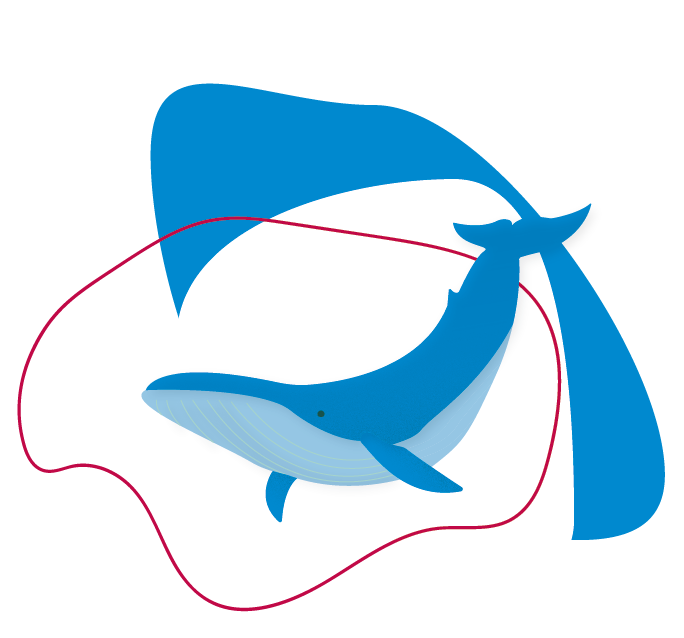
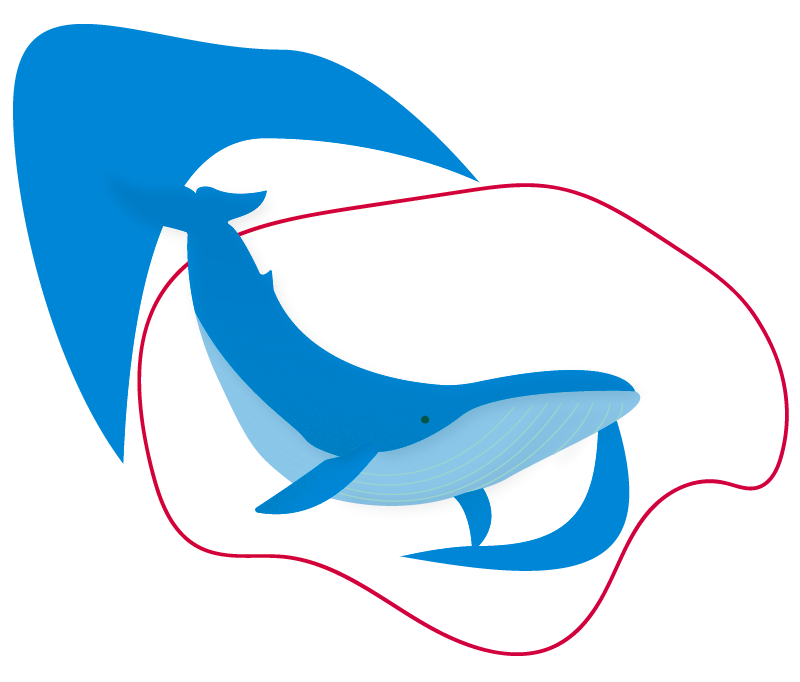
background images

diff --git a/css/style.css b/css/style.css
@@ -1,44 +1,33 @@
 
 
 
-	body.blue{
-		 background-image: url("blue_whale_background.png");
+body.blue{
+		 background-image: url(../images/blue_background-11.png);
+		 background-repeat: no-repeat;
+         background-size: cover;
 	}
-/*
-	body.humpback{
-		background-color:#225caa;
-	}  
-
-	body.gray{
-		background-color:#e5d8b5;
 	}
 
-	body.orca{
-		background-color:#e8858c;
+body.gray{
+		 background-image: url(../images/gray_background-11.png);
+		 background-repeat: no-repeat;
+         background-size: cover;
+	}
 	}
 
-*/
-main.home{
-	background-color:#fff;}
-
-	main.blue{
-		background-color:#a6d1ca;
-	}
-
-	main.humpback{
-		background-color:#225caa;
-	}  
-
-	main.gray{
-		background-color:#e5d8b5;
-	}
-
-	main.orca{
-		background-color:#e8858c;
+body.humpback{
+		 background-image: url(../images/humpback_background-11.png);
+		 background-repeat: no-repeat;
+         background-size: cover;
 	}
 
 
 
+body.orca{
+		 background-image: url(../images/orca_background-11.png);
+		 background-repeat: no-repeat;
+         background-size: cover;
+	}
 
 	a{
 		text-decoration: none;}
@@ -107,7 +96,7 @@ main.home{
 
 
 		nav{ padding: 20px;
-			font-family: 'Barlow', sans-serif;
+			font-family: 'Staatliches', cursive;
 			font-size: 16px;
 		}
 
@@ -136,7 +125,7 @@ h1.home_header {
 	height:100px;
 	padding-top:20px;
 	padding-left:20px;
-	font-family: 'Barlow', sans-serif;
+	font-family: 'Staatliches', cursive;
 	color:#e83832;
 	font-size:70px;
 	font-weight:900;
@@ -146,7 +135,7 @@ h1.home_header {
 
 h1.blue_header {
 	width:100%;
-	font-family: 'Barlow', sans-serif;
+	font-family: 'Staatliches', cursive;
 	color:#0089cf;
 	font-size:100px;
 	font-weight:900;
@@ -157,7 +146,7 @@ h1.blue_header {
 
 h1.humpback_header{
 	width:100%;
-	font-family: 'Barlow', sans-serif;
+	font-family: 'Staatliches', cursive;
 	color:#96c6e2;
 	font-size:100px;
 	font-weight:900;
@@ -167,7 +156,7 @@ h1.humpback_header{
 
 h1.gray_header {
 	width:100%;
-	font-family: 'Barlow', sans-serif;
+	font-family: 'Staatliches', cursive;
 	color:#3e3694;
 	font-size:100px;
 	font-weight:900;
@@ -178,7 +167,7 @@ h1.gray_header {
 
 h1.orca_header {
 	width:100%;
-	font-family: 'Barlow', sans-serif;
+	font-family: 'Staatliches', cursive;
 	color:#225caa;
 	font-size:100px;
 	font-weight:900;
@@ -224,7 +213,7 @@ article.home_article{
 	display:block;
 	width:350px;
 	height:300px;
-	font-family: 'Montserrat', sans-serif;
+	font-family: 'ABeeZee', sans-serif;
 	color:#000;
 	font-size:18px;
 	font-weight:200;
@@ -238,10 +227,11 @@ article.home_article{
 
 article.blue_article{ 
 	width:350px;
-	font-family: 'Montserrat', sans-serif;
-	color:#000;
-	font-size:16px;
-	line-height:1.5em;
+	font-family: 'ABeeZee', sans-serif;
+	color:#0087d6;
+	font-weight:500;
+	font-size:18px;
+	line-height:2em;
 	position: absolute;
 	left: 990px;
 	top: 350px;
@@ -252,10 +242,10 @@ article.blue_article{
 
 article.humpback_article{ 
 	width:350px;
-	font-family: 'Montserrat', sans-serif;
+	font-family: 'ABeeZee', sans-serif;
 	color:#fff;
-	font-size:16px;
-	line-height:1.5em;
+	font-size:18px;
+	line-height:2em;
 	position: absolute;
 	left: 90px;
 	top: 350px;
@@ -266,10 +256,10 @@ article.humpback_article{
 
 article.gray_article{ 
 	width:350px;
-	font-family: 'Montserrat', sans-serif;
-	color:#000;
-	font-size:16px;
-	line-height:1.5em;
+	font-family: 'ABeeZee', sans-serif;
+	color:#3e3694;
+	font-size:18px;
+	line-height:2em;
 	position: absolute;
 	left: 990px;
 	top: 350px;
@@ -280,10 +270,10 @@ article.gray_article{
 
 article.orca_article{ 
 	width:350px;
-	font-family: 'Montserrat', sans-serif;
+	font-family: 'ABeeZee', sans-serif;
 	color:#fff;
-	font-size:16px;
-	line-height:1.5em;
+	font-size:18px;
+	line-height:2em;
 	position: absolute;
 	left: 90px;
 	top: 350px;

diff --git a/orca.html b/orca.html
@@ -9,7 +9,7 @@
 	<!-- This is a special css library that overrides all the ugle default css styles that come with html5 -->
 	<link rel="stylesheet" href="https://cdnjs.cloudflare.com/ajax/libs/meyer-reset/2.0/reset.min.css">
 	<link rel="stylesheet" href="css/style.css">
-	<link href="https://fonts.googleapis.com/css?family=Barlow|Montserrat&display=swap" rel="stylesheet">
+	<link href="https://fonts.googleapis.com/css?family=ABeeZee|Staatliches&display=swap" rel="stylesheet">
 
 </head>
 <body class="orca">
@@ -36,7 +36,7 @@
 	
 			<article class="orca_article">
 				<p>
-					Orcas, or killer whales, are the largest of the dolphins and one of the world's most powerful predators. They're immediately recognizable by their distinctive black-and-white coloring. Smart and social, orcas make a wide variety of sounds, and each pod has distinctive noises that its members will recognize even at a distance. They use echolocation to communicate and hunt, making sounds that travel underwater until they encounter objects, then bounce back, revealing their location, size, and shape.
+					Orcas, or killer whales, are the largest of the dolphins and one of the world's most powerful predators. They're immediately recognizable by their distinctive black-and-white coloring. Smart and social, orcas make a wide variety of sounds, and each pod has distinctive noises that its members will recognize even at a distance. 
 				</p>
 			</article>
 			

diff --git a/index.html b/index.html
@@ -8,7 +8,7 @@
 	<!-- This is a special css library that overrides all the ugle default css styles that come with html5 -->
 	<link rel="stylesheet" href="https://cdnjs.cloudflare.com/ajax/libs/meyer-reset/2.0/reset.min.css">
 	<link rel="stylesheet" href="css/style.css">
-	<link href="https://fonts.googleapis.com/css?family=Barlow:100,100i,200,200i,300,300i,400,400i,500,500i,600,600i,700,700i,800,800i,900,900i|Montserrat:100,100i,200,200i,300,300i,400,400i,500,500i,600,600i,700,700i,800,800i,900,900i&display=swap" rel="stylesheet">
+	<link href="https://fonts.googleapis.com/css?family=ABeeZee|Staatliches&display=swap" rel="stylesheet">
 
 </head>
 <body>

diff --git a/humpback.html b/humpback.html
@@ -8,7 +8,7 @@
 	<!-- This is a special css library that overrides all the ugle default css styles that come with html5 -->
 	<link rel="stylesheet" href="https://cdnjs.cloudflare.com/ajax/libs/meyer-reset/2.0/reset.min.css">
 	<link rel="stylesheet" href="css/style.css">
-	<link href="https://fonts.googleapis.com/css?family=Barlow|Montserrat&display=swap" rel="stylesheet">
+<link href="https://fonts.googleapis.com/css?family=ABeeZee|Staatliches&display=swap" rel="stylesheet">
 
 </head>
 <body class="humpback">

diff --git a/gray.html b/gray.html
@@ -8,7 +8,7 @@
 	<!-- This is a special css library that overrides all the ugle default css styles that come with html5 -->
 	<link rel="stylesheet" href="https://cdnjs.cloudflare.com/ajax/libs/meyer-reset/2.0/reset.min.css">
 	<link rel="stylesheet" href="css/style.css">
-	<link href="https://fonts.googleapis.com/css?family=Barlow|Montserrat&display=swap" rel="stylesheet">
+	<link href="https://fonts.googleapis.com/css?family=ABeeZee|Staatliches&display=swap" rel="stylesheet">
 
 </head>
 <body class="gray">

diff --git a/blue.html b/blue.html
@@ -8,7 +8,7 @@
 	<!-- This is a special css library that overrides all the ugle default css styles that come with html5 -->
 	<link rel="stylesheet" href="https://cdnjs.cloudflare.com/ajax/libs/meyer-reset/2.0/reset.min.css">
 	<link rel="stylesheet" href="css/style.css">
-	<link href="https://fonts.googleapis.com/css?family=Barlow|Montserrat&display=swap" rel="stylesheet">
+<link href="https://fonts.googleapis.com/css?family=ABeeZee|Staatliches&display=swap" rel="stylesheet">
 
 </head>
 <body class="blue">
